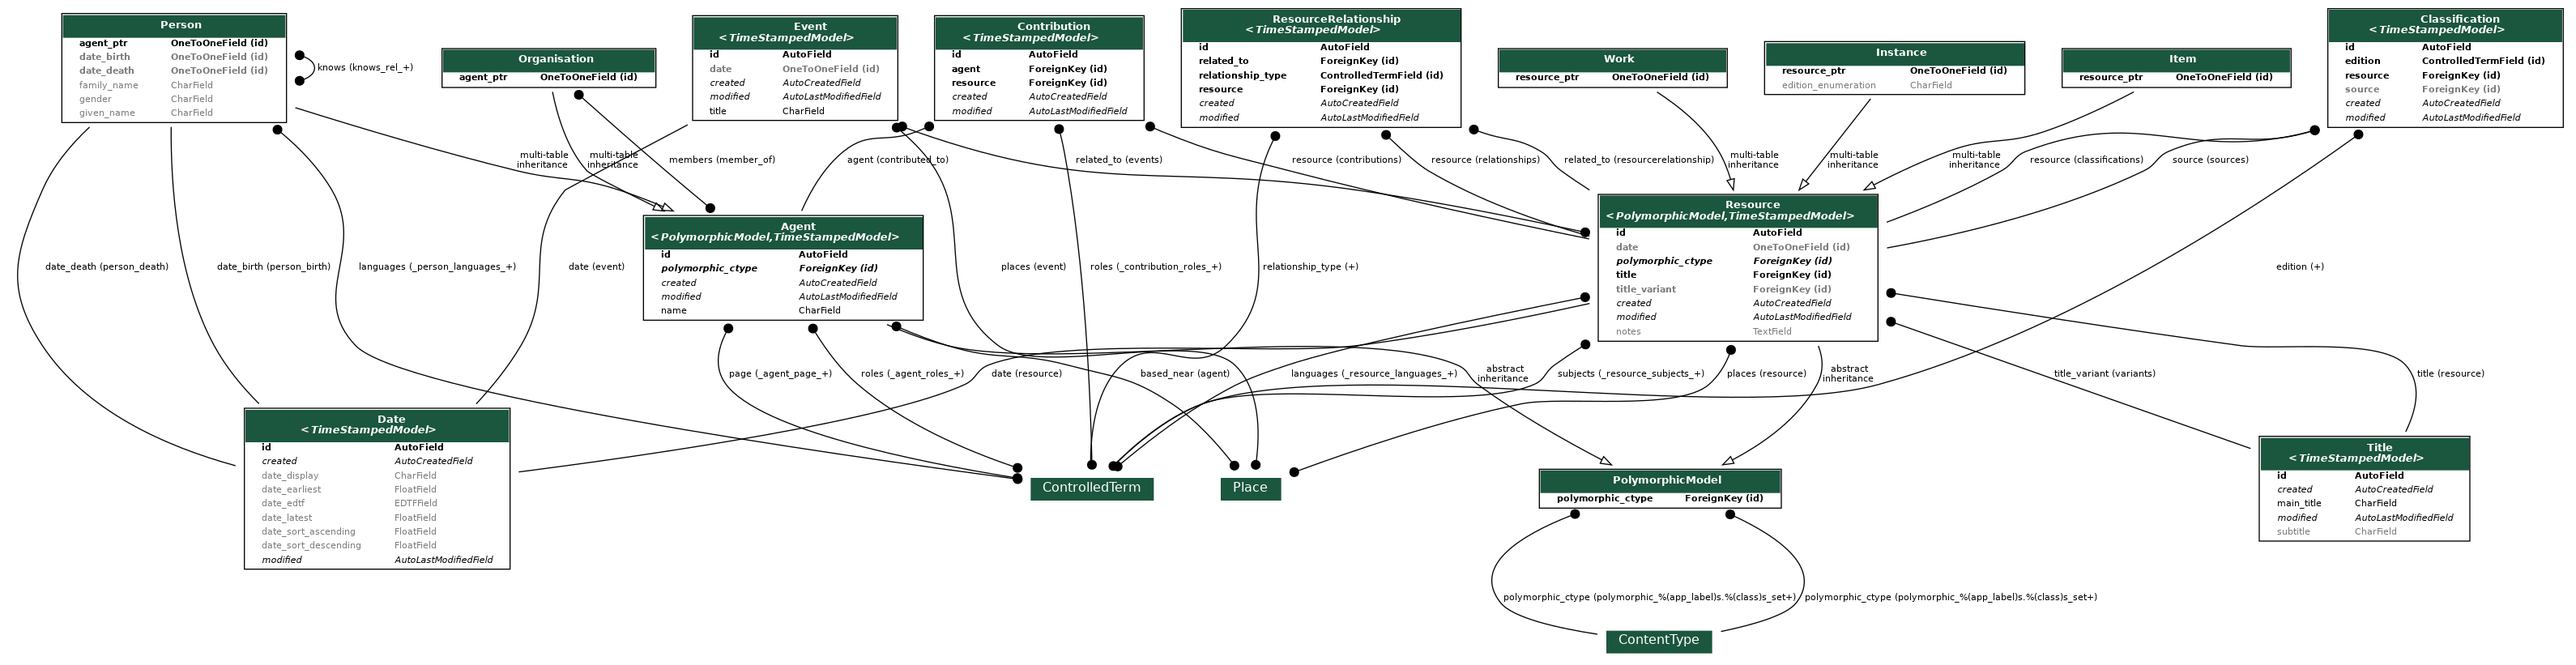
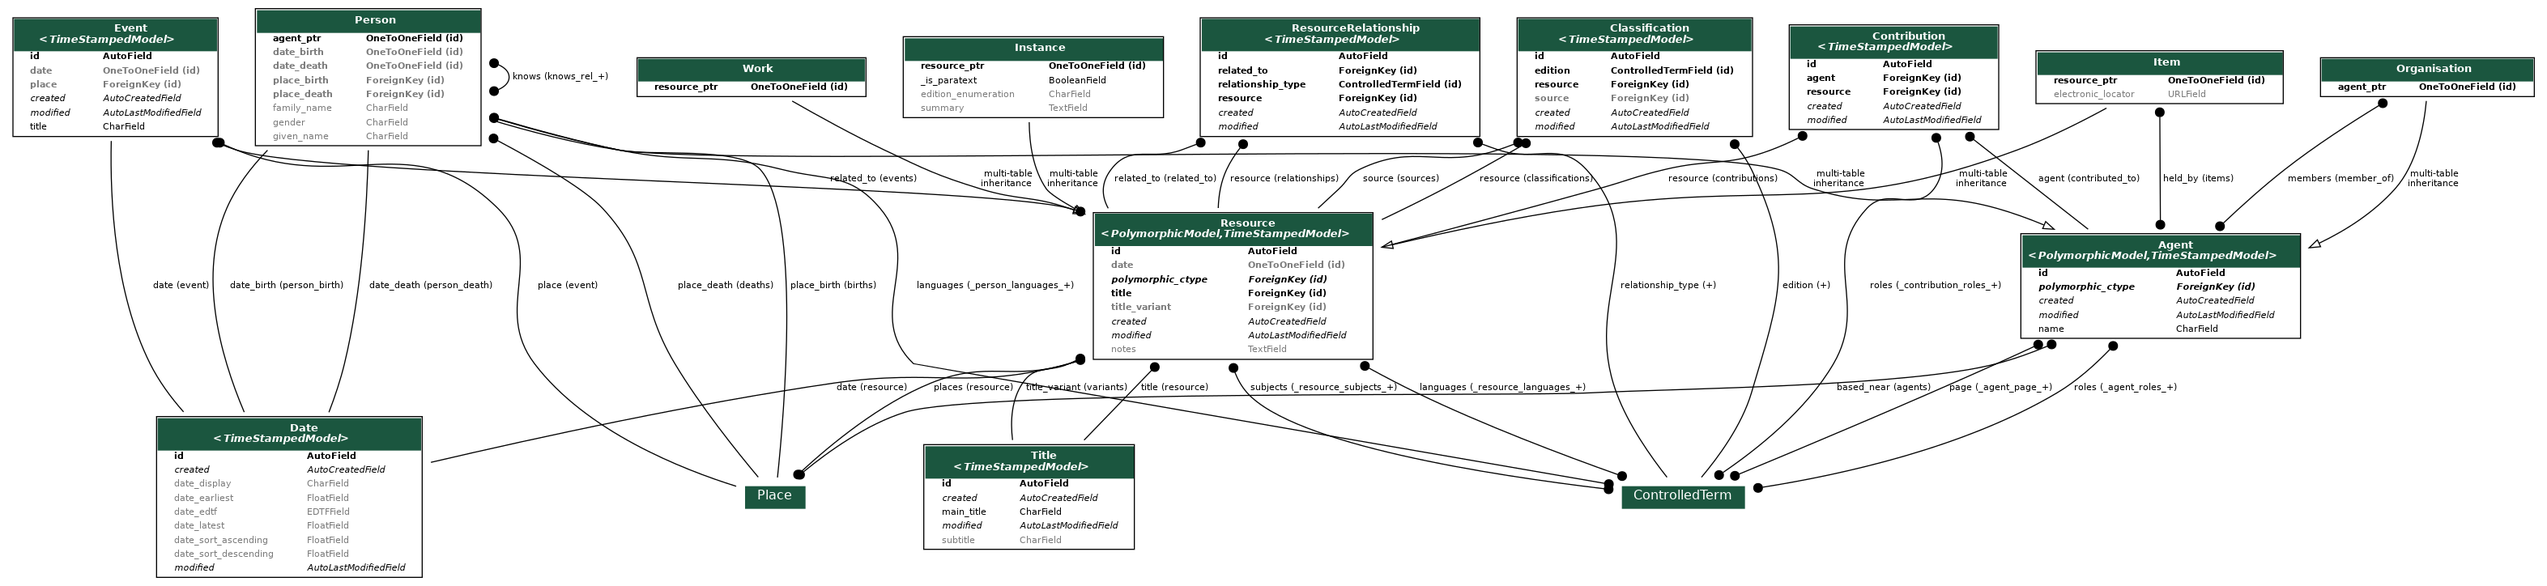
📖 Doc: Update models graph.

diff --git a/docs/technical-overview.rst b/docs/technical-overview.rst
@@ -41,7 +41,7 @@ Agents (Persons, Organisations).
 The data model graph was generated with the `django-extensions graph_models`_
 command::
 
-    $ compose/bin/manage.sh graph_models core agents events utils -E -X PolymorphicModel -X TimeStampedModel -o models.png
+    $ ./bake.py manage graph_models -X TimeStampedModel,PolymorphicModel -o models.png agents core events utils
 
 .. _BIBFRAME: https://www.loc.gov/bibframe/docs/bibframe2-model.html
 .. _FOAF: http://xmlns.com/foaf/spec/
